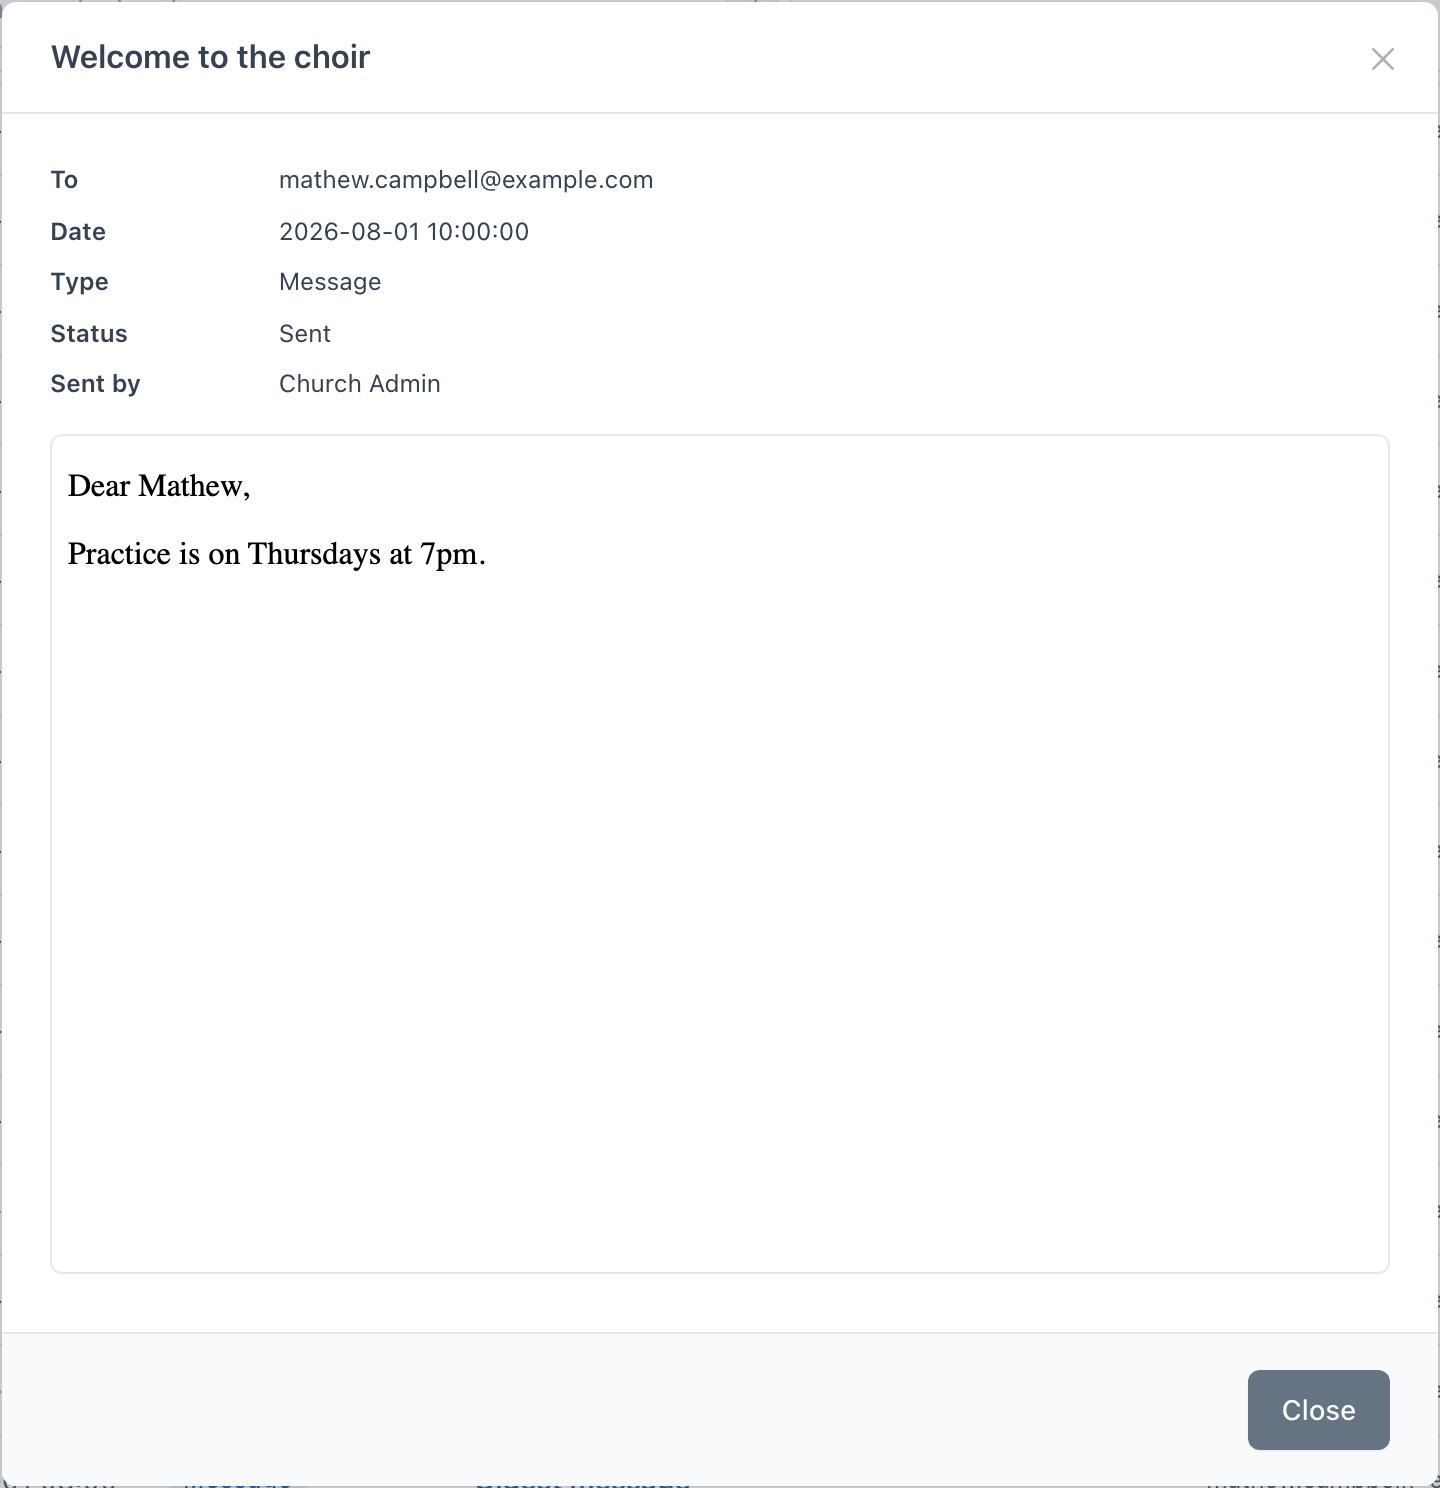
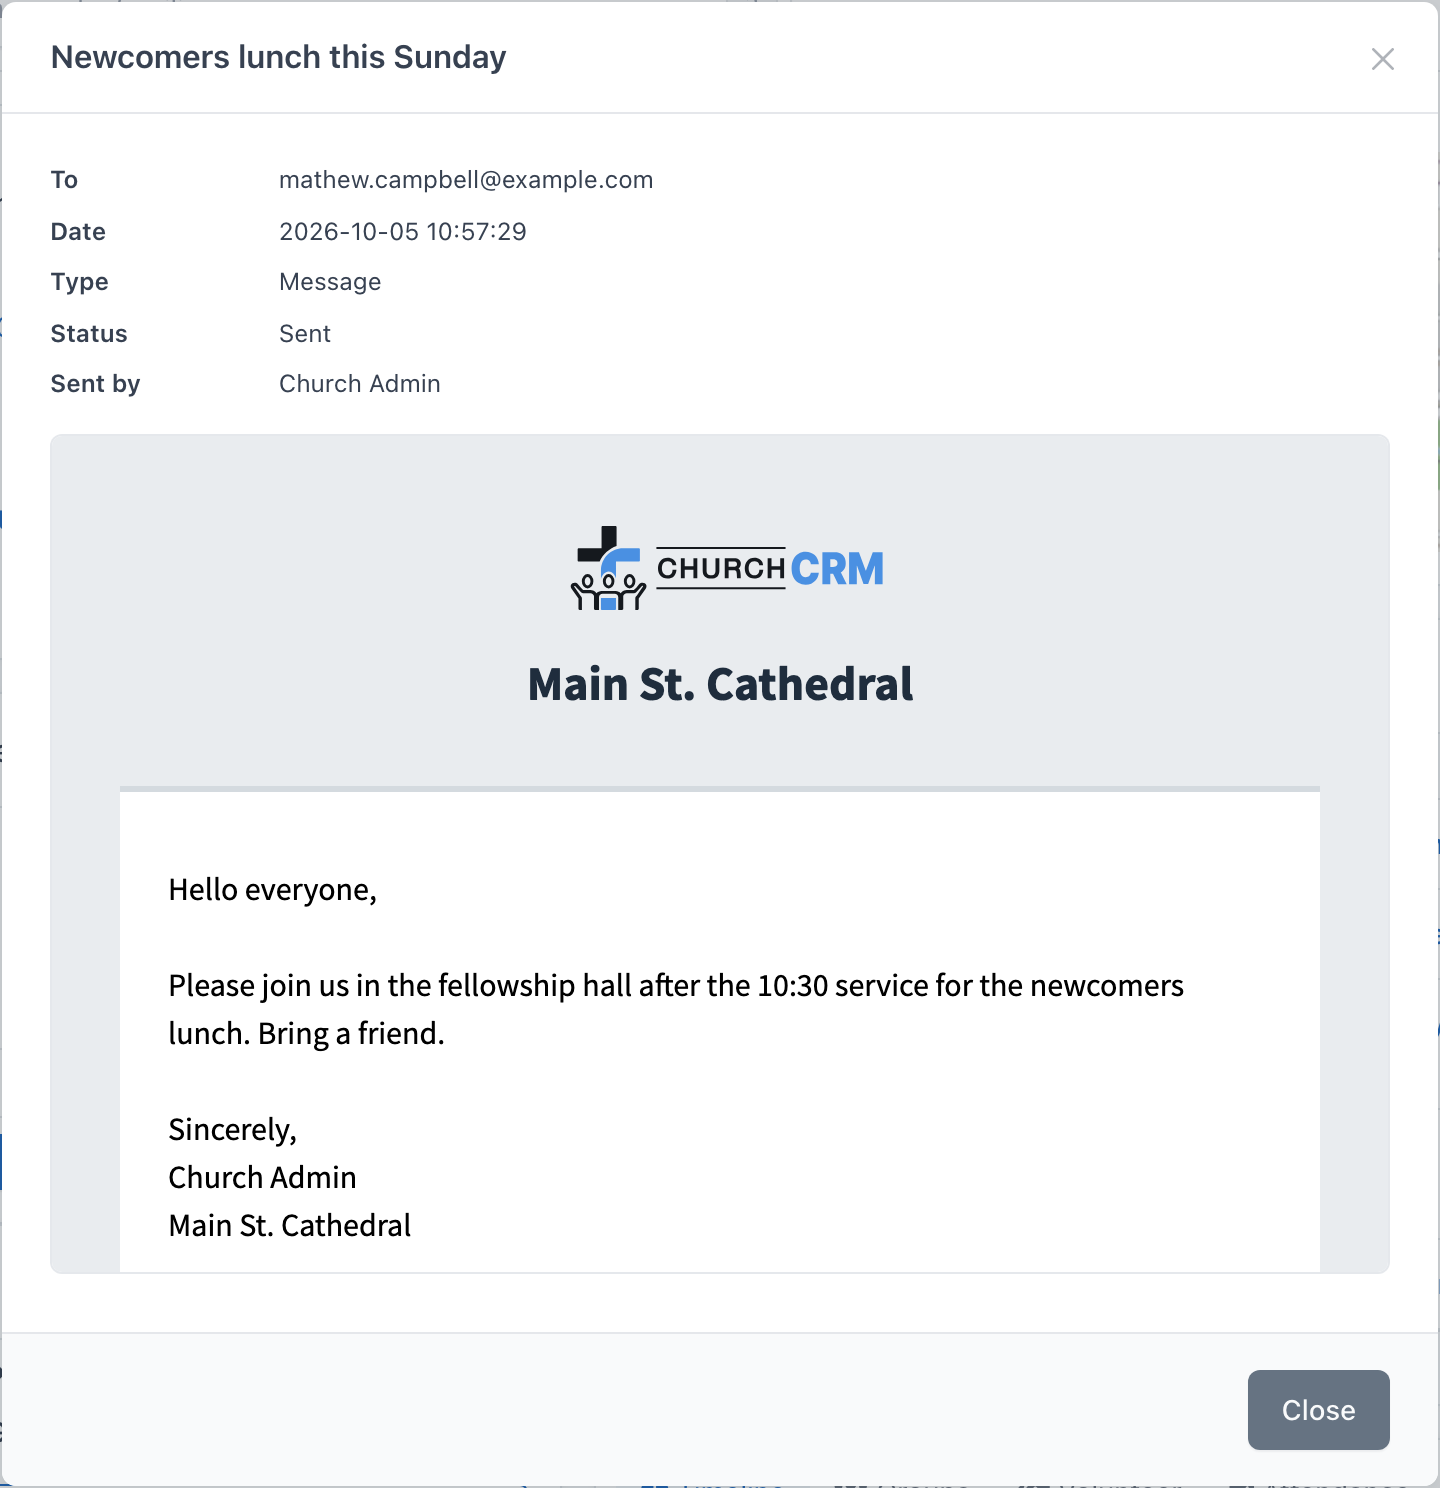
docs(email): match the email history docs to the 7.8.0 release code
The history feature now lands with ChurchCRM/CRM#10246 (the combined
7.8.0 release PR) instead of #9912. Checked every claim against
release/7.8.0-portal-volunteer and the running test stack:

- Timeline: chips with counts, several at once, Notes on by default,
  Show all; the Emails chip appears once the person has been emailed;
  there is no date-range filter
- Volunteer emails are recorded and keep their content; every email
  other than composer and volunteer messages keeps subject, date and
  status only
- Skipped also covers a missing mail server
- Email sent to a family's own address is on nobody's card
- Recent Sends shows the latest 20 emails, not every email; recipients
  the composer left out leave no history entry
- Fix the Families and Classifications links on the Email page, with the
  same Best Practices wording as the composer docs branch, and move the
  history section above Best Practices so the two branches merge cleanly

Retook email-history-modal.png: the old image showed a seeded test row
with a bare body; a real composer message opens with the church header,
logo and footer.

diff --git a/docs/user-guide/persons.md b/docs/user-guide/persons.md
@@ -60,22 +60,22 @@ Administrators can control whether deceased people appear in printed directories
 
 ## Timeline Filters
 
-The **Person View** includes a **Timeline** tab that shows notes, attendance records, and activity in chronological order. Use the filter controls to narrow the timeline by:
+The **Person View** includes a **Timeline** tab that shows notes, attendance records, and activity in chronological order, grouped by year. The chips above it narrow the timeline by type:
 
-- **Type** — Notes, Events, Emails, System, or all of them
-- **Date range** — Show entries from a specific period
+- **Notes**, **Events**, **Emails**, and **System** — each chip shows how many entries it holds. Click chips to turn them on or off; several can be on at once. **Notes** is on when the page opens.
+- **Show all** — shows every entry.
 
-This makes it easier to review pastoral care history or attendance patterns for a specific member without scrolling through unrelated entries.
+The filters make it easier to review pastoral care history or attendance patterns for a specific member without scrolling through unrelated entries.
 
 ![Timeline filter chips: Notes, Events, Emails, System](/img/user-guide/email-history-timeline-filter.png)
 
-The **Emails** chip shows every email ChurchCRM has sent to this person in the timeline, alongside notes and attendance. See [Email History](#email-history) below.
+The **Emails** chip, which appears once ChurchCRM has emailed the person, shows those emails in the timeline alongside notes and attendance. See [Email History](#email-history) below.
 
 ---
 
 ## Email History
 
-As of **7.8.0**, ChurchCRM keeps a record of every email it sends to a person: messages written in the [email composer](/user-guide/email), birthday greetings, family verification links, account emails (new account, password reset, lock and unlock, deletion), notifications, and the SMTP test. Anyone who can open the person can see it.
+As of **7.8.0**, ChurchCRM keeps a record of every email it sends. A person's history holds the emails addressed to them: messages written in the [email composer](/user-guide/email), birthday greetings, family verification links, account emails (new account, password reset, lock and unlock, deletion), notifications, and volunteer emails from Volunteer Management v2. Anyone who can open the person can see it.
 
 ### Recent Emails card
 
@@ -86,7 +86,7 @@ The **Recent Emails** card on the Person View lists the five latest emails to th
 | **Date** | When the email was sent |
 | **Type** | What kind of email it was: Message (written in the composer), Birthday greeting, Family verification, Password reset link, New account, Notification, and so on |
 | **Subject** | The subject line; click it to open the email |
-| **Status** | **Sent**, **Failed** (the mail server refused it; hover over the badge for the error), or **Skipped** (email sending was disabled at the time) |
+| **Status** | **Sent**, **Failed** (the mail server refused it; hover over the badge for the error), or **Skipped** (email sending was turned off, or no mail server was set up, at the time) |
 | **Sent by** | The user who wrote it, or **Automatic** for emails ChurchCRM sent on its own |
 
 ![Recent Emails card on the Person View](/img/user-guide/email-history-recent-emails-card.png)
@@ -99,7 +99,7 @@ Click a subject to see the email as it was sent, with the recipient address, dat
 
 ![An email opened from the history, shown as it was sent](/img/user-guide/email-history-modal.png)
 
-The full content is kept only for messages written in the composer. Account emails contain a password or a one-time link, so ChurchCRM stores their subject and date only; opening one shows **The content of this email is not stored** instead of the message.
+ChurchCRM keeps the full content of messages written in the composer and of volunteer emails. For every other email it stores the subject, date, and status only, because many of them (account emails, password reset links) contain a password or a one-time link. Opening one shows **The content of this email is not stored** instead of the message.
 
 ![An account email in the history: the content is not stored](/img/user-guide/email-history-modal-not-stored.png)
 
@@ -110,7 +110,7 @@ Click **Show all** at the bottom of the card to open the person's complete email
 ![The full Email History page for a person](/img/user-guide/email-history-show-all.png)
 
 :::note
-Email history is kept indefinitely; nothing is deleted automatically. Families have no card of their own: history is recorded per person, so open the family member you are interested in. Administrators can see every email across everyone on the [Email dashboard](/user-guide/email#email-history-and-the-email-dashboard).
+Email history is kept indefinitely; nothing is deleted automatically. Families have no card of their own: history is recorded per person, so open the family member you are interested in. An email sent to the family's own address (for example from the Family View) is recorded against the family, not a person, so it appears on nobody's card. Administrators see the most recent emails to everyone, family addresses included, on the [Email dashboard](/user-guide/email#email-history-and-the-email-dashboard).
 :::
 
 ---

diff --git a/docs/user-guide/email.md b/docs/user-guide/email.md
@@ -50,28 +50,19 @@ As of **7.5.0**, ChurchCRM includes an in-app email composer that replaces the o
 
 ### Subscribing Families to Newsletters
 
-1. Open a [Family](Families) record.
+1. Open a [Family](./families.md) record.
 2. Enable the **Newsletter** option.
 3. Use Mailchimp's audience sync to import subscribers.
 
 ---
 
-## Best Practices
-
-- Always get consent before adding someone to an email list.
-- Use Mailchimp for newsletters and large announcements.
-- Use the in-app composer for ad-hoc group and cart emails.
-- Keep your [Classifications](Classifications) updated to target the right audiences.
-
----
-
 ## Email history and the Email dashboard
 
-As of **7.8.0**, ChurchCRM keeps a record of every email it sends: messages written in the composer, birthday greetings, family verification links, account emails (new account, password reset, lock and unlock, deletion), notifications, and the SMTP test. Each person's history is shown on their Person View; see [Email History](/user-guide/persons#email-history).
+As of **7.8.0**, ChurchCRM keeps a record of every email it sends, including messages written in the composer, birthday greetings, family verification links, account emails (new account, password reset, lock and unlock, deletion), notifications, volunteer emails, and the SMTP test. Each person's history is shown on their Person View; see [Email History](/user-guide/persons#email-history).
 
 ### Recent Sends (administrators)
 
-Administrators also see a **Recent Sends** panel at the bottom of the Email dashboard (**Communication → Email** in the left navigation). It lists every email ChurchCRM has sent to anyone, newest first, with the recipient address, the status, and who sent it (a user, or **Automatic**). The badge next to the title is the total number of emails on record; a red **failed** badge next to it counts the emails the mail server refused.
+Administrators also see a **Recent Sends** panel at the bottom of the Email dashboard (**Communication → Email** in the left navigation). It lists the 20 most recent emails ChurchCRM sent to anyone, newest first, with the date, type, subject, recipient address, status, and who sent it (a user, or **Automatic**). The badge next to the title is the total number of emails on record; a red **failed** badge next to it counts the emails the mail server refused.
 
 ![Recent Sends panel on the Email dashboard](/img/user-guide/email-dashboard-recent-sends.png)
 
@@ -79,10 +70,19 @@ This is the first place to look when somebody says "nobody got the email":
 
 - If the message is listed as **Sent**, ChurchCRM handed it to the mail server; ask the recipient to check their spam folder.
 - If it is **Failed**, hover over the badge to read the mail server's error, then check the [email settings](/administration/email-setup).
-- If it is **Skipped**, email sending was disabled when the message was written; enable it and send again.
-- If it is not listed at all, the person was not emailed. Open the composer result again, or the person's history, to see why they were left out.
+- If it is **Skipped**, email sending was turned off, or no mail server was set up, when the message was sent; fix the [email settings](/administration/email-setup) and send again.
+- If it is not listed at all, ChurchCRM never tried to send it. A person the composer left out (no email address, do not email, deceased, or the same address as another recipient) was named under **Not sent** in the composer's result banner and leaves no entry in the history. The panel shows only the latest 20 emails, so for an older one open the person's history.
 
 Click a subject to open the email as it was sent, or open a person to see their full history. The panel is visible to administrators only; other users see the history of the people they can open.
+
+---
+
+## Best Practices
+
+- Always get consent before adding someone to an email list.
+- Use Mailchimp for newsletters and large announcements.
+- Use the in-app composer for ad-hoc messages to a person, a family, a group, or the cart.
+- Keep your [Classifications](./classifications.md) updated to target the right audiences.
 
 ---
 
